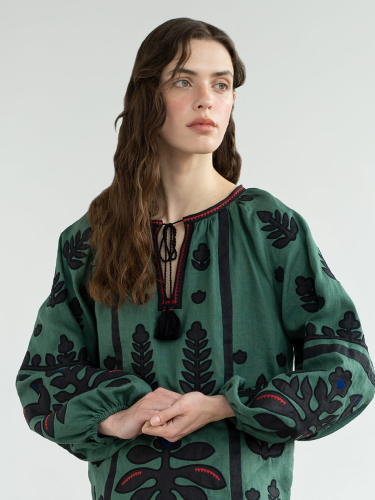
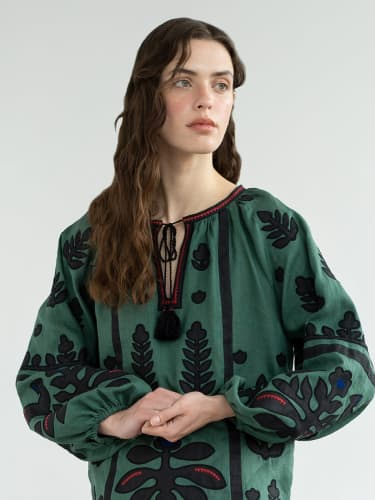
add optimized images

diff --git a/css/style.css b/css/style.css
@@ -60,10 +60,12 @@ body {
 
 .container {
   min-width: 320px;
-  max-width: 374.98px;
+  max-width: 375px;
   padding: 0 20px;
   margin: 0 auto;
 }
+
+/* =========== HEADER =========== */
 
 .header {
   padding-top: 20px;
@@ -153,7 +155,7 @@ body {
   }
 }
 
-/* ===== desktop ===== */
+/* ===== desktop 1280===== */
 @media screen and (min-width: 1280px) {
   .header {
     padding-top: 22px;
@@ -431,7 +433,7 @@ body {
   }
 
   .order-container {
-    background-image: url(../images/order/order-element-gray.png);
+    background-image: url(../images/order/order-elements-1280.png);
     background-repeat: no-repeat;
     background-size: 289px 484px;
     background-position: left bottom;

diff --git a/index.html b/index.html
@@ -185,6 +185,7 @@
                 class="order-content-img"
                 src="./images/order/order-content-tablet.jpg"
                 alt="gray embroidered shirt with white sleeves and ornaments in black, gray, white and red shades on a girl"
+                loading="lazy"
               />
             </picture>
           </div>
